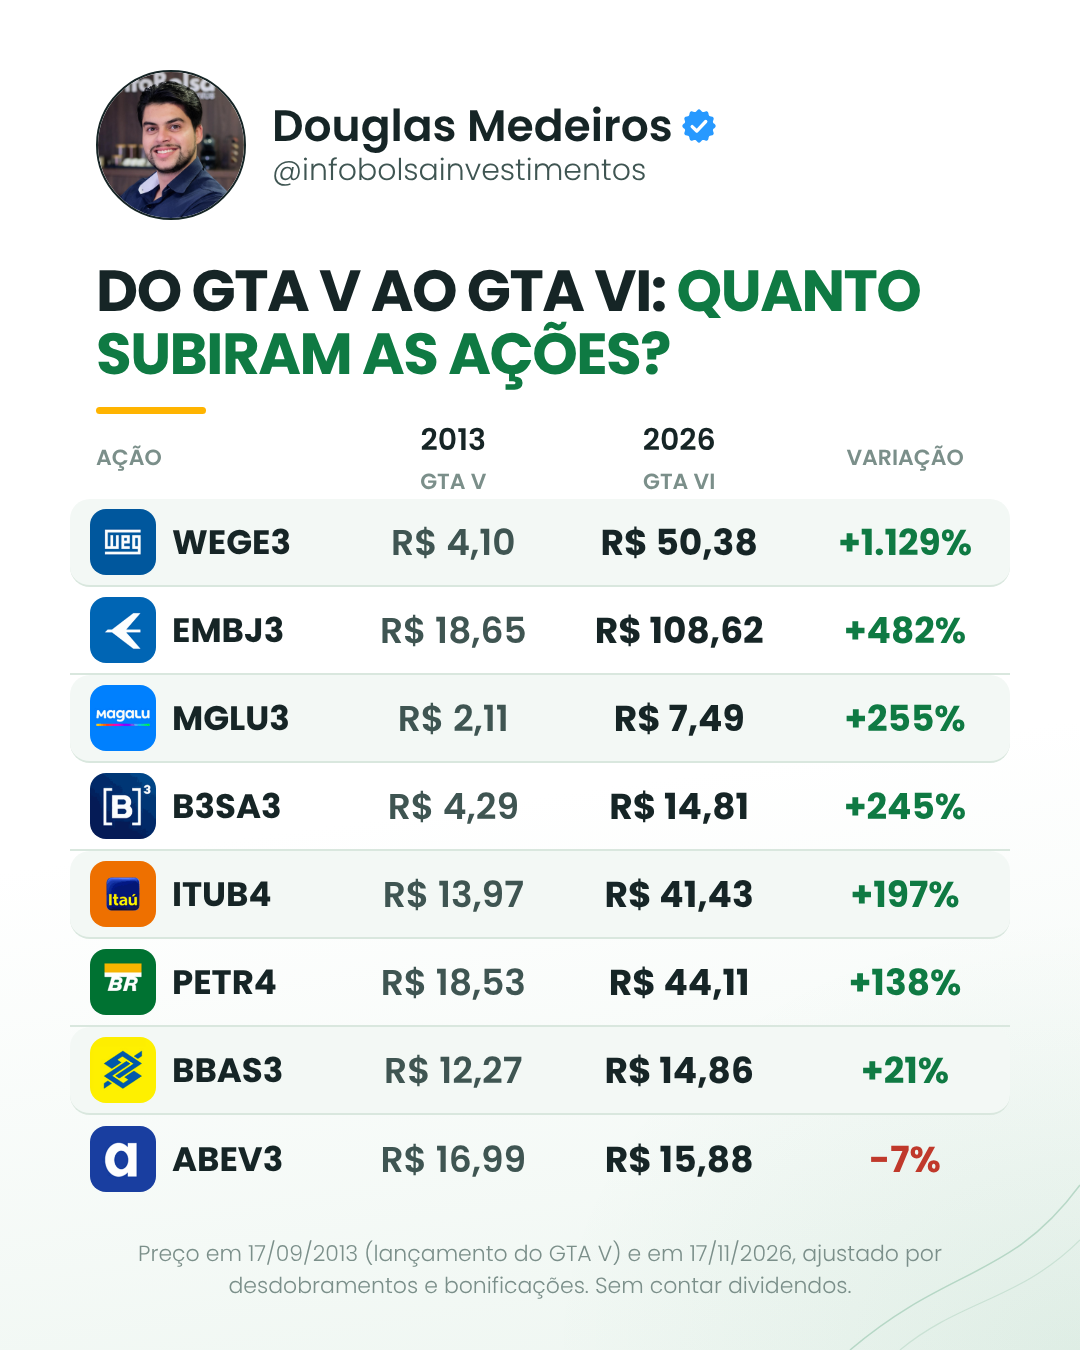
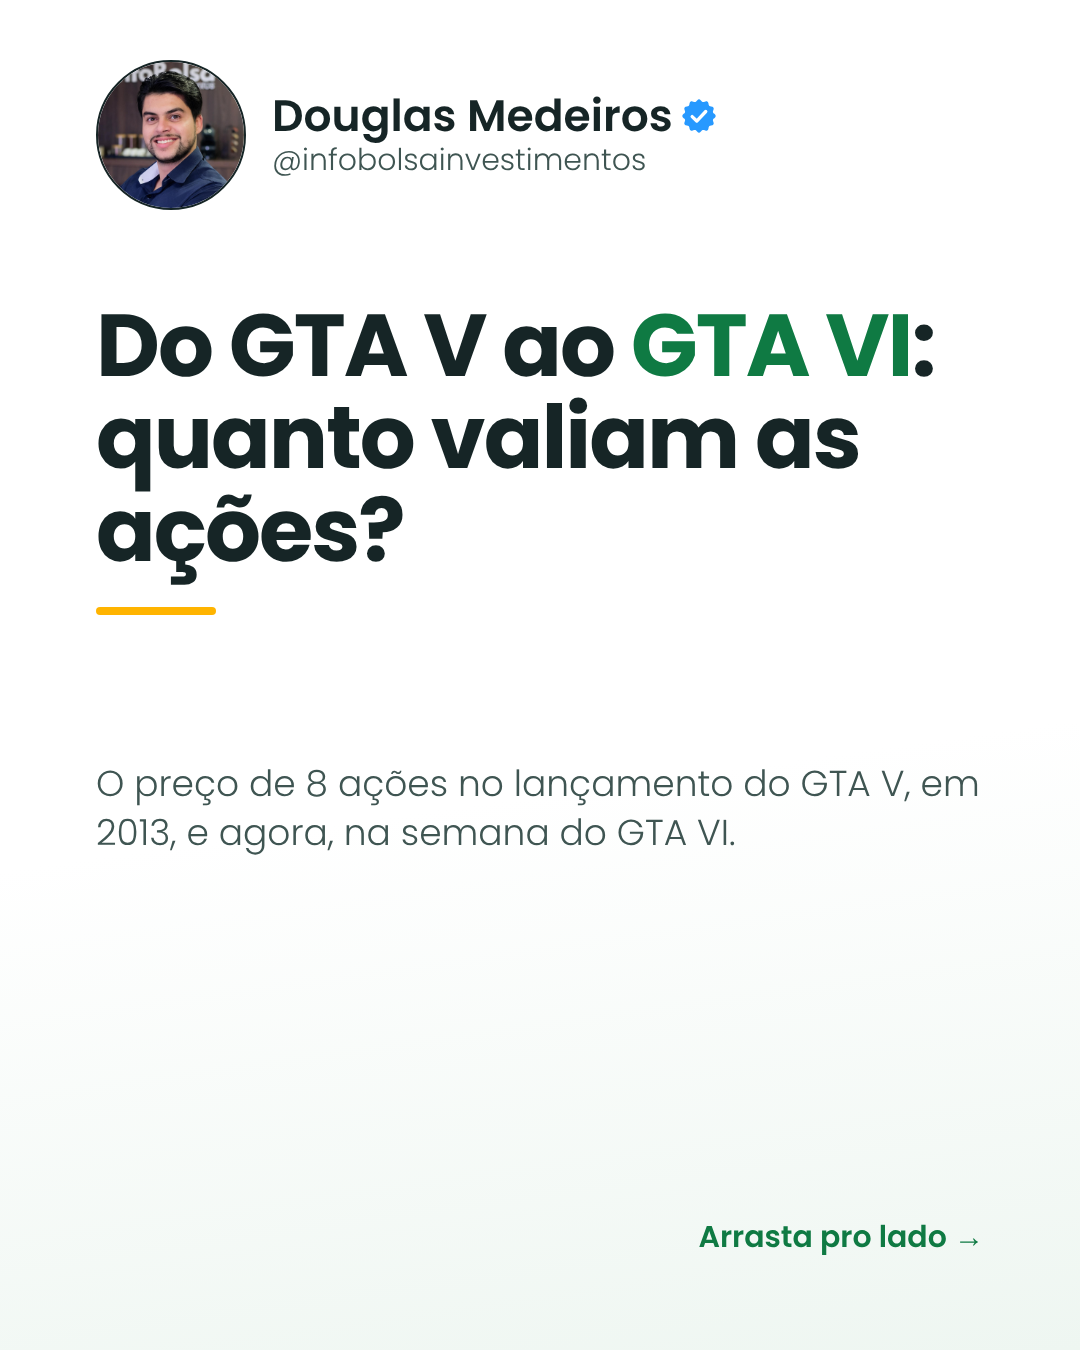
GTA V x GTA VI em carrossel, uma ação por slide
Claude-Session: https://claude.ai/code/session_01V4Ut9U2W4uPbxLAyJQKmJH

diff --git a/kit/gen_gta.py b/kit/gen_gta.py
@@ -1,0 +1,62 @@
+#!/usr/bin/env python3
+"""Carrossel 'antes x depois' (ex.: GTA V 2013 x GTA VI 2026), uma ação por slide.
+Uso: python3 gen_gta.py config.json prefixo  -> prefixo-1.html (capa), prefixo-2.html...
+cfg: capa_titulo, capa_sub, rot_a, ano_a, rot_b, ano_b, itens [{tk,nome,logo,a,b,var}], nota"""
+import json, sys
+from gen_inst import CSS, FS, SELO, SCRIPT
+
+EX = """
+body{background:#fff!important}
+.q{position:absolute;display:flex;flex-direction:column;justify-content:center}
+.esq{left:0;width:430px;padding:0 50px}
+.esq .r{font-weight:700;font-size:96px;line-height:1;letter-spacing:-2px}
+.esq .a{font-weight:600;font-size:44px;margin-top:14px;opacity:.85}
+.esq .s{font-size:24px;margin-top:10px;opacity:.7}
+.cima.esq{top:0;height:675px;background:#162526;color:#fff}
+.baixo.esq{top:675px;height:675px;background:linear-gradient(160deg,#0f7a43,#0a5a31);color:#fff}
+.dir{left:430px;width:650px;padding:0 60px;align-items:flex-start}
+.cima.dir{top:0;height:675px;background:#f4f7f5}
+.baixo.dir{top:675px;height:675px;background:#fff}
+.dir .lg{display:flex;align-items:center;gap:22px}
+.dir .lg img{width:110px;height:110px;border-radius:26px;object-fit:contain}
+.dir .tk{font-weight:700;font-size:52px;color:#162526;line-height:1}
+.dir .nm{font-size:26px;color:#7b8f8a;margin-top:6px}
+.dir .p{font-weight:700;font-size:118px;letter-spacing:-3px;color:#162526;margin-top:30px;line-height:1}
+.dir .p small{font-size:56px;letter-spacing:0;margin-right:8px;font-weight:600}
+.dir .v{margin-top:24px;font-weight:700;font-size:40px;padding:10px 24px;border-radius:40px}
+.up{background:#e2f0e8;color:#0f7a43}.dn{background:#f8e1de;color:#c0392b}
+.div{position:absolute;left:0;right:0;top:672px;height:6px;background:#FFB400}
+.rod{position:absolute;left:auto;right:40px;top:auto;bottom:26px;font-size:22px;color:#7b8f8a}
+.cap{position:absolute;inset:0;background:linear-gradient(172deg,#fff 0%,#fff 58%,#eef6f1 100%)}
+.cap .t{position:absolute;left:96px;right:96px;top:300px;font-weight:700;font-size:88px;line-height:1.05;letter-spacing:-2px;color:#162526}
+.cap .t span{color:#0f7a43}
+.cap .t:after{content:'';display:block;width:120px;height:8px;border-radius:4px;background:#FFB400;margin-top:30px}
+.cap .s{position:absolute;left:96px;right:96px;top:760px;font-size:36px;line-height:1.35;color:#3f5552}
+.cap .arr{position:absolute;right:96px;bottom:90px;font-weight:600;font-size:30px;color:#0f7a43}
+"""
+
+def pag(body):
+    return f"""<!doctype html><html lang="pt-BR"><head><meta charset="utf-8"><style>{CSS.replace('FS/', FS)}{EX}</style></head>
+<body style="--fg:#162526;--sub:#3f5552;--foto:#162526">{body}{SCRIPT}</body></html>"""
+
+def capa(c):
+    return pag(f"""<div class="cap"><div class="cab"><div class="ft"><img src="assets/foto.png" alt=""></div>
+<div><div class="nm">Douglas Medeiros {SELO}</div><div class="ar">@infobolsainvestimentos</div></div></div>
+<div class="t">{c["capa_titulo"]}</div><div class="s">{c["capa_sub"]}</div><div class="arr">Arrasta pro lado →</div></div>""")
+
+def slide(c, x):
+    lg = f'<div class="lg"><img src="{x["logo"]}"><div><div class="tk">{x["tk"]}</div><div class="nm">{x["nome"]}</div></div></div>'
+    cls = "dn" if x["var"].startswith("-") else "up"
+    pr = lambda v: f'<div class="p num"><small>R$</small>{v}</div>'
+    return pag(f"""<div class="q cima esq"><div class="r">{c["rot_a"]}</div><div class="a">{c["ano_a"]}</div><div class="s">{c.get("sub_a", "")}</div></div>
+<div class="q cima dir">{lg}{pr(x["a"])}</div>
+<div class="q baixo esq"><div class="r">{c["rot_b"]}</div><div class="a">{c["ano_b"]}</div><div class="s">{c.get("sub_b", "")}</div></div>
+<div class="q baixo dir">{lg}{pr(x["b"])}<div class="v num {cls}">{x["var"]} em 13 anos</div></div>
+<div class="div"></div><div class="rod">@infobolsainvestimentos</div>""")
+
+if __name__ == "__main__":
+    cfg, pre = sys.argv[1:3]
+    c = json.load(open(cfg))
+    open(f"{pre}-1.html", "w").write(capa(c))
+    for i, x in enumerate(c["itens"], 2):
+        open(f"{pre}-{i}.html", "w").write(slide(c, x))
